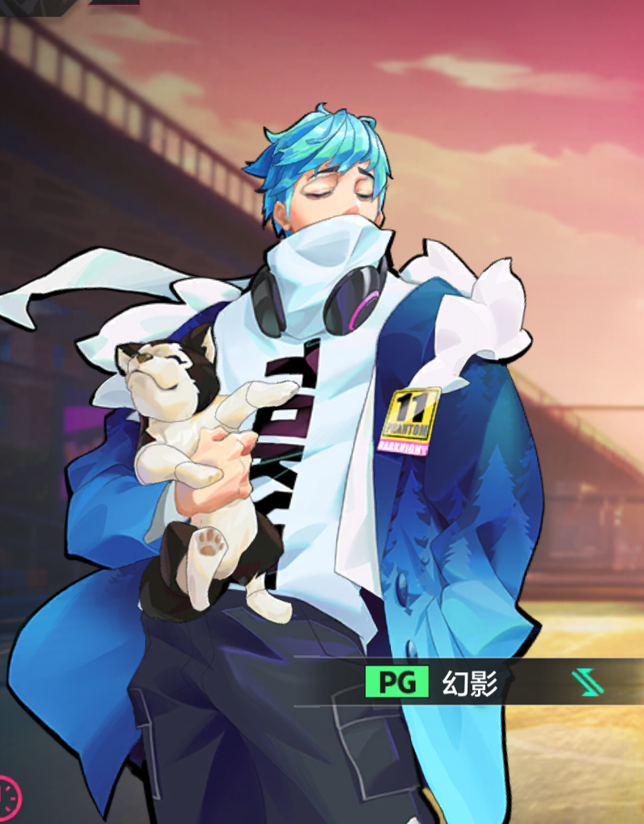
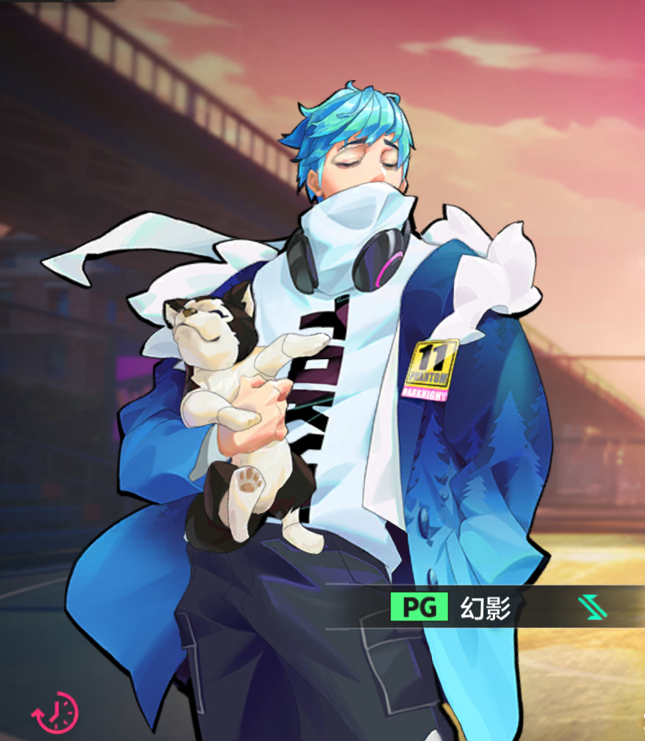
changed kuroko image and minor css

diff --git a/src/pages/CharacterDetailPage.css b/src/pages/CharacterDetailPage.css
@@ -448,7 +448,7 @@
     padding: 10px;
   }
   .details-main img {
-    margin-left: 8%;
+    margin-left: 3%;
     max-width: 100%;
     object-fit: cover;
     overflow: hidden;
